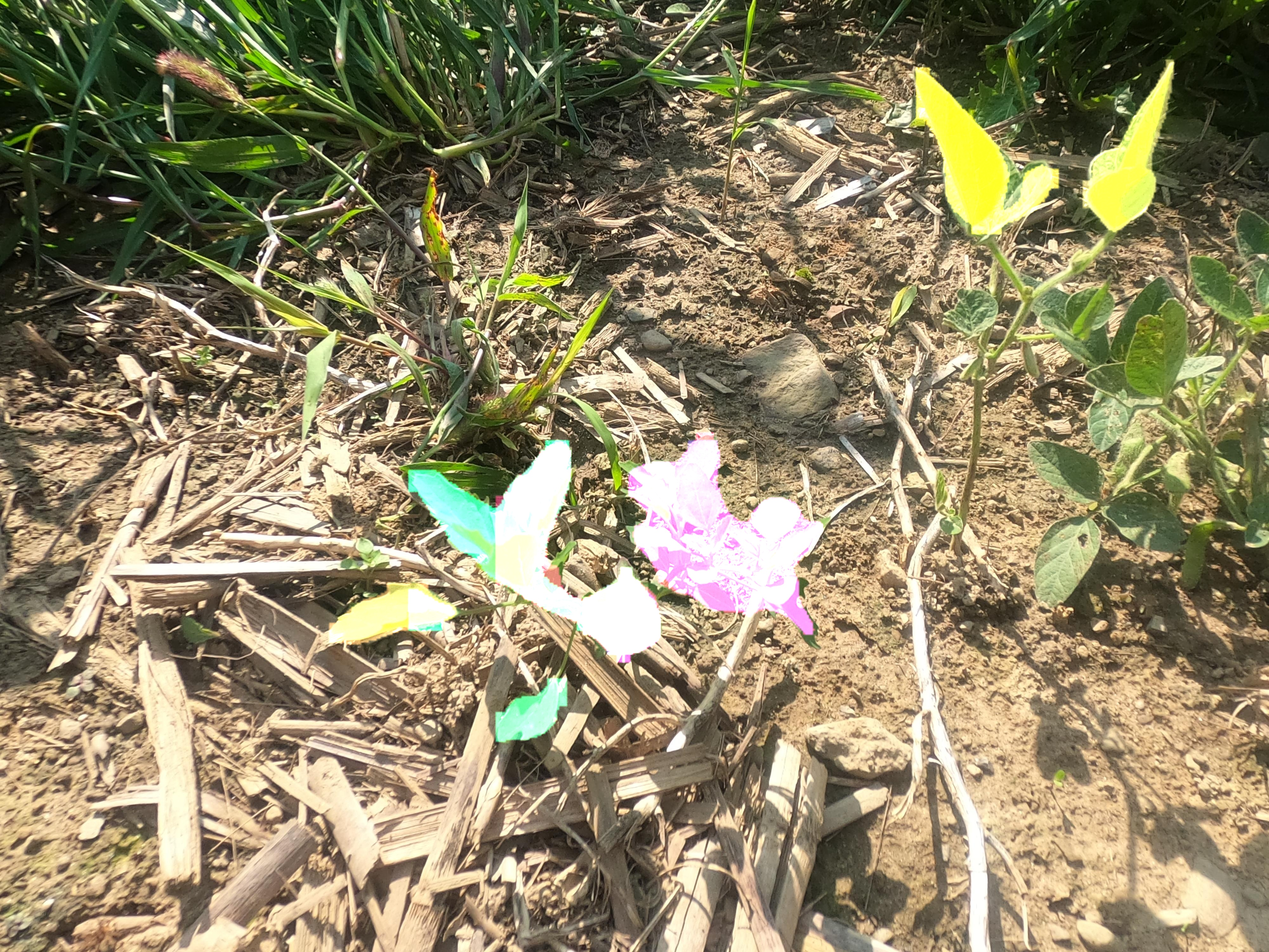
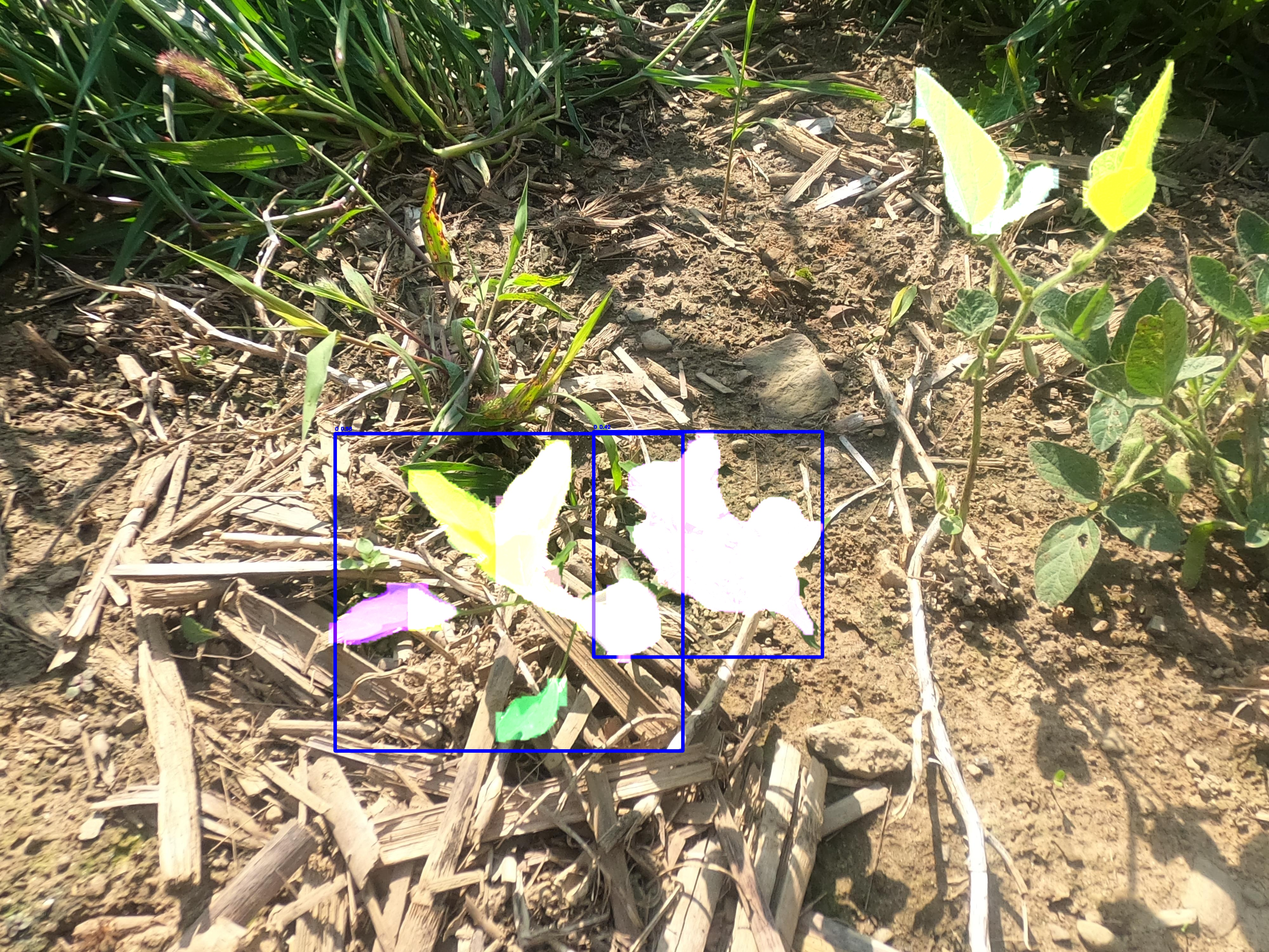
feat: store annotation

Changed region(s): [[0.25, 0.434, 0.6562, 0.806], [0.7188, 0.062, 0.8438, 0.248]]

diff --git a/client-gui/src/app/page.tsx b/client-gui/src/app/page.tsx
@@ -32,7 +32,7 @@ export default function Home() {
     const urls = [
 
       //after construction, need to register this to a stable deployer;  
-      // "http://10.192.227.142", // for illinoisNet
+      // "http://10.192.227.142", // for illinoisNet, also wont work
       // "http://192.168.10.252:8000", // for VUE // this will not work due to mixed https / http
       "http://localhost:8000", //local 
     ];
@@ -54,60 +54,68 @@ export default function Home() {
 
   const handleUpload = async (e: React.ChangeEvent<HTMLInputElement>) => {
     let tmpUrl = ""
-    const file = e.target.files?.[0]; 
-    if (!file) return; 
-    const formData = new FormData();  
-    formData.append("img", file); 
-    const res = await fetch(baseServerURL + "/gui/upload", {
-      method: "POST", 
-      body: formData,
-    }); 
-    if (res.ok) {
-        const data = await res.json(); 
-        console.log("Upload successful:", data);  
-        console.log(data.url)
-        tmpUrl = data.url
-        //update url state for constant rendering; 
-        console.log(baseServerURL + `${data.url}`)
-        // setImageUrl(baseServerURL + `${data.url}`);
-        addImg(file.name); //store it for demo;  
-    } else {
-        console.error("Upload failed:", res.status, await res.text());
-    }
-
-    
-
-    const img_path = baseServerURL + "/raw_upload/" + file.name; 
-    const image = {
-      img_path: img_path,
-      regions: [],
-      borders: [],
-      classification: "none", 
-    }
-    const res2 = await fetch(baseServerURL + "/db/putImage", {
+    // const file = e.target.files?.[0]; 
+    const files = e.target.files
+    if (!files) return; 
+    for (let i = 0; i < files.length; i++) {
+      const file = files[i];
+      if (!file) return; 
+      const formData = new FormData();  
+      formData.append("img", file); 
+      const res = await fetch(baseServerURL + "/gui/upload", {
         method: "POST", 
-        headers: { "Content-Type": "application/json" },
-        body: JSON.stringify(image)
-    });
-    if (res2.ok) {
-        // const data = await 
-        // console.log("Upload successful:", data);  
-        console.log(tmpUrl)
-        //update url state for constant rendering; 
-        console.log("aaaaaaaaaaaaaaaaaaaaaaaaaaaaaa")
-        console.log(baseServerURL)
-        setImageUrl(baseServerURL + tmpUrl);
+        body: formData,
+      }); 
+      if (res.ok) {
+          const data = await res.json(); 
+          console.log("Upload successful:", data);  
+          console.log(data.url)
+          tmpUrl = data.url
+          //update url state for constant rendering; 
+          console.log(baseServerURL + `${data.url}`)
+          // setImageUrl(baseServerURL + `${data.url}`);
+          addImg(file.name); //store it for demo;  
+      } else {
+          console.error("Upload failed:", res.status, await res.text());
+      }
 
-    } else {
-        console.error("Upload failed:", res2.status, await res2.text());
+      
+
+      const img_path = baseServerURL + "/raw_upload/" + file.name; 
+      const image = {
+        img_path: img_path,
+        regions: [],
+        borders: [],
+        classification: "none", 
+      }
+      const res2 = await fetch(baseServerURL + "/db/putImage", {
+          method: "POST", 
+          headers: { "Content-Type": "application/json" },
+          body: JSON.stringify(image)
+      });
+      if (res2.ok) {
+          // const data = await 
+          // console.log("Upload successful:", data);  
+          console.log(tmpUrl)
+          //update url state for constant rendering; 
+          console.log("aaaaaaaaaaaaaaaaaaaaaaaaaaaaaa")
+          console.log(baseServerURL)
+          setImageUrl(baseServerURL + tmpUrl);
+
+      } else {
+          console.error("Upload failed:", res2.status, await res2.text());
+      }
     }
+    
   
   };
  
 
 
   return (
-    <div className="fixed inset-0 w-screen h-screen min-w-0 min-h-0 bg-[#FFFFFF] font-sans">
+    <div className="fixed inset-0 w-screen h-screen min-w-0 min-h-0 bg-[#FFFFFF] font-sans" style={{
+      overflow: "auto", 
+    }}>
       <ResizablePanelGroup
         direction="horizontal"
         className="w-full h-full max-w-full max-h-full rounded-none border-none"
@@ -168,6 +176,7 @@ export default function Home() {
             id="file-upload"
             type="file"
             className="hidden"
+            multiple
             onChange={handleUpload}
           />
           {imageUrl && (

diff --git a/client-gui/src/app/_components/canvas/wrap.tsx b/client-gui/src/app/_components/canvas/wrap.tsx
@@ -3,7 +3,10 @@ import React, {useRef, useState} from "react";
 import dynamic from 'next/dynamic';
 import Konva from "konva";
 import "./style.css";
-import useCanvasStore from "../../_store/canvas";
+import useDataStore from "@/app/_store/data";
+import useServerStore from "@/app/_store/server"
+import useImageStore from "@/app/_store/img"
+import useCanvasStore from "@/app/_store/canvas"
 const Canvas = dynamic(() => import('./Canvas'), { ssr: false });
 import RegionsList from "./RegionsList";
 import BorderList from "./BordersList";
@@ -33,8 +36,12 @@ const handleDownload = (stage: Konva.Stage | null) => {
 
  
 const Wrap =  () => {
+  const imageUrl = useImageStore((s) => s.imageUrl)
+  const baseServerURL = useServerStore((s) => s.baseServerURL)
   const width = useCanvasStore((s) => s.width);
   const height = useCanvasStore((s) => s.height);
+  const regions = useCanvasStore((s) => s.regions);
+  const borders = useCanvasStore((s) => s.borders);
   const stageRef = useRef<Konva.Stage | null>(null); 
   const[focusName, setFocusName] = useState<string>('region')
   const imageLayerRef = useRef<Konva.Layer | null>(null);
@@ -47,6 +54,8 @@ const Wrap =  () => {
     "base image": imageLayerRef,
     "border": borderLayerRef,
   };
+
+
   
   const switchFocus = (name: string) => {
     setFocusName(name);
@@ -55,6 +64,25 @@ const Wrap =  () => {
     });
     setFocusLayer(layerRefs[name]?.current ?? null);
   };
+
+  const saveAnnotations = async () => {
+    // get current img; 
+    const updateInfo = {
+      img_path: imageUrl,
+      regions: regions, 
+      boxes: borders, 
+      //no classification yet
+    }
+
+    const response = await fetch(baseServerURL + "/db/editImage", {
+        method: "POST", 
+        headers: { "Content-Type": "application/json" },
+        body: JSON.stringify(updateInfo), 
+    });
+    if (!response.ok) {
+      return "error edit image"
+    }
+  }
 
 
 
@@ -140,6 +168,24 @@ const Wrap =  () => {
           </Button>
 
           <Download/>
+
+                    <Button
+            style={{
+              background: "#1976d2",
+              color: "white",
+              border: "none",
+              padding: "12px 32px",
+              fontWeight: 600,
+              fontSize: 18,
+              boxShadow: "0 2px 8px rgba(25,118,210,0.12)",
+              cursor: "pointer",
+              transition: "background 0.2s",
+              marginBottom: 10, 
+            }}
+            onClick={() => saveAnnotations()}
+          >
+            Save Annotation
+          </Button>
 
         </div>
   

diff --git a/client-gui/src/app/_components/gallery.tsx b/client-gui/src/app/_components/gallery.tsx
@@ -1,3 +1,4 @@
+"use client"
 import { Button } from "@/components/ui/button"
 import { Input } from "@/components/ui/input"
 import { Label } from "@/components/ui/label"
@@ -86,6 +87,11 @@ function DataTableDemoComponent() {
             status: false, 
         })), [imgs]
     )
+    // const data: ImgInfo[] = 
+    //     imgs.map((img) => ({ 
+    //         name: img, 
+    //         status: false, 
+    //     }))
 
     // Memoize the HandleEdit function
     const HandleEdit = React.useCallback(async (filename: string) => {
@@ -109,8 +115,8 @@ function DataTableDemoComponent() {
                 console.log("Image data:", image.img_path);
                 setImageUrl(image.img_path);
                 
-                // setRegions(image.regions ?? []);
-                // setBorders(image.boxes ?? []);
+                setRegions(image.regions ?? []);
+                setBorders(image.boxes ?? []); 
                 console.log("State updated");
             }
         } catch (error) {

diff --git a/client-gui/src/app/_components/settings.tsx b/client-gui/src/app/_components/settings.tsx
@@ -7,7 +7,7 @@ import useServerStore from '../_store/server';
 import useCanvasStore, {Region, Border} from '../_store/canvas';
 import { Checkbox } from "@/components/ui/checkbox"
 import { Label } from "@/components/ui/label"
-import useDataStore from '../_store/data';
+
 import "./style.css"
 
 //This SCALE is for sizes change between image-canvas, has nothing to do with cv2 ! 

diff --git a/client-gui/src/app/_components/canvas/Download.tsx b/client-gui/src/app/_components/canvas/Download.tsx
@@ -79,6 +79,7 @@ export function Download() {
               boxShadow: "0 2px 8px rgba(25,118,210,0.12)",
               cursor: "pointer",
               transition: "background 0.2s",
+              marginBottom: 10, 
             }}
             onClick={()=>handleDownload()}> Download CV2 Rendered; </Button>
 }

diff --git a/server/db/crud.py b/server/db/crud.py
@@ -5,11 +5,12 @@ from sqlalchemy import select
 import os
 from dotenv import load_dotenv
 from sqlalchemy.orm import sessionmaker
-from typing import AsyncGenerator, List
+from typing import List, Optional, Any
 import asyncio
 from db.db import get_session
 from db.models import Image
-from fastapi import APIRouter, Depends
+from fastapi import APIRouter, Depends, HTTPException
+from pydantic import BaseModel
 
 db_router = APIRouter()
 
@@ -39,3 +40,41 @@ async def delete_image(img_path: str, session: AsyncSession = Depends(get_sessio
         await session.delete(img)
     await session.commit()
     return {"deleted": len(imgs)}
+
+
+# Define model for the update request
+class ImageUpdate(BaseModel):
+    img_path: str
+    regions: Optional[List[Any]] = None
+    boxes: Optional[List[Any]] = None
+    classification: Optional[str] = None
+
+
+# edit a image;
+@db_router.post("/editImage")
+async def edit_image(
+    imgUpdate: ImageUpdate, session: AsyncSession = Depends(get_session)
+):
+    # fetch
+    result = await session.execute(
+        select(Image).where(Image.img_path == imgUpdate.img_path)
+    )
+    image = result.scalars().first()
+
+    if not image:
+        raise HTTPException(status_code=404, detail="Image not found")
+    # update
+    if imgUpdate.regions is not None:
+        image.regions = imgUpdate.regions
+
+    if imgUpdate.boxes is not None:
+        image.boxes = imgUpdate.boxes
+
+    if imgUpdate.classification is not None:
+        image.classification = imgUpdate.classification
+
+    # commit
+    await session.commit()
+    await session.refresh(image)
+
+    return image
